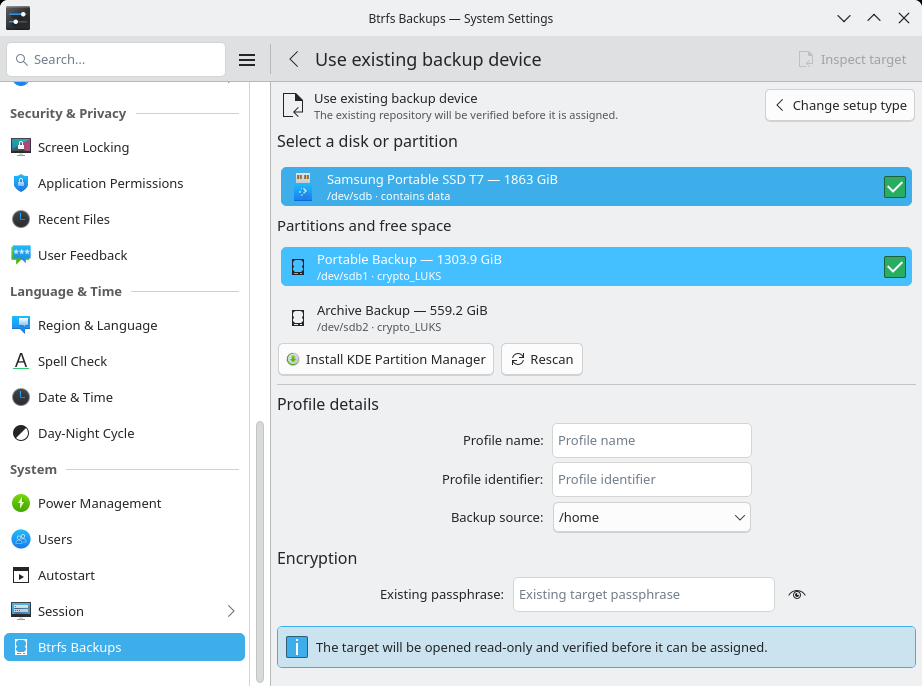
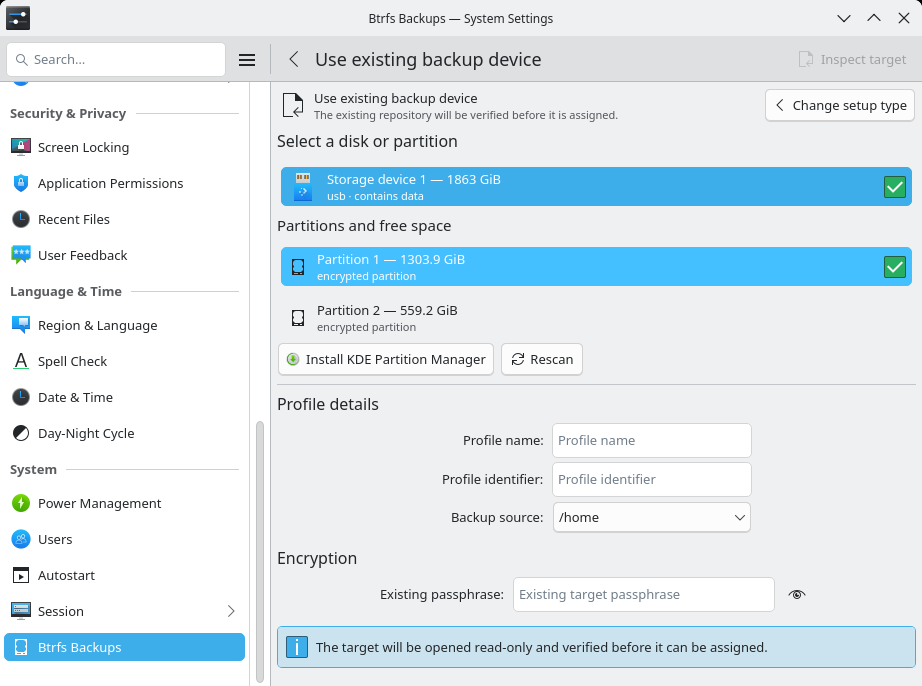
docs(screenshots): refresh deterministic README captures

Changed region(s): [[0.3341, 0.3673, 0.5466, 0.4898], [0.3644, 0.2449, 0.6074, 0.3061]]

diff --git a/tools/screenshots/static-clock/contents/ui/main.qml b/tools/screenshots/static-clock/contents/ui/main.qml
@@ -1,0 +1,36 @@
+// SPDX-FileCopyrightText: 2026 Kamil Piwowarski <kapiwko@gmail.com>
+// SPDX-License-Identifier: GPL-3.0-or-later
+
+import QtQuick
+import org.kde.kirigami as Kirigami
+import org.kde.plasma.plasmoid
+
+PlasmoidItem {
+    implicitWidth: 76
+    implicitHeight: 44
+    preferredRepresentation: fullRepresentation
+
+    fullRepresentation: Item {
+        implicitWidth: 76
+        implicitHeight: 44
+
+        Column {
+            anchors.centerIn: parent
+            spacing: -2
+
+            Text {
+                anchors.horizontalCenter: parent.horizontalCenter
+                color: Kirigami.Theme.textColor
+                font.pixelSize: 17
+                text: "12:14"
+            }
+
+            Text {
+                anchors.horizontalCenter: parent.horizontalCenter
+                color: Kirigami.Theme.textColor
+                font.pixelSize: 11
+                text: "03.09.2026"
+            }
+        }
+    }
+}

diff --git a/tools/screenshots/widget_panel.js b/tools/screenshots/widget_panel.js
@@ -15,5 +15,5 @@ var widget = panel.addWidget("org.btrfsbackup.plasmoid");
 widget.currentConfigGroup = ["General"];
 widget.writeConfig("showStorage", false);
 widget.globalShortcut = "Meta+B";
-panel.addWidget("org.kde.plasma.digitalclock");
+panel.addWidget("org.btrfsbackup.screenshotclock");
 print(widget.id);

diff --git a/tools/screenshots/notification_panel.js b/tools/screenshots/notification_panel.js
@@ -13,5 +13,5 @@ panel.addWidget("org.kde.plasma.panelspacer");
 
 var widget = panel.addWidget("org.kde.plasma.notifications");
 widget.globalShortcut = "Meta+N";
-panel.addWidget("org.kde.plasma.digitalclock");
+panel.addWidget("org.btrfsbackup.screenshotclock");
 print(widget.id);

diff --git a/tools/screenshots/kde-manager-demo.cpp b/tools/screenshots/kde-manager-demo.cpp
@@ -3,8 +3,12 @@
 
 #include <QCoreApplication>
 #include <QDBusConnection>
+#include <QDateTime>
 #include <QJsonDocument>
 #include <QJsonObject>
+#include <QTime>
+
+#include <core/ManagerProtocol.hpp>
 
 class ScreenshotSplash final : public QObject {
     Q_OBJECT
@@ -20,7 +24,8 @@ class ScreenshotManager final : public QObject {
     Q_CLASSINFO("D-Bus Interface", "io.github.btrfsbackup.Manager1")
 
   public:
-    explicit ScreenshotManager(QString mode) : mode_(std::move(mode)) {
+    explicit ScreenshotManager(QString mode, QString page)
+        : mode_(std::move(mode)), page_(std::move(page)), now_(QDateTime::currentDateTimeUtc()) {
     }
 
   public slots:
@@ -34,10 +39,20 @@ class ScreenshotManager final : public QObject {
 
     QString GetStatus(const QString& profile) const {
         if (profile == QStringLiteral("home") && mode_ == QStringLiteral("transferring")) {
-            return QStringLiteral(R"({"schemaVersion":5,"runId":"run-1","state":"running","phase":"transfer","activity":"transferring","canCancel":true,"errorCode":"","sourceName":"Documents","targetName":"Portable Backup","bytesProcessed":68719476736,"bytesTotalEstimated":118111600640,"speedBps":94371840,"etaSeconds":540,"sourceProgress":58,"overallProgress":58,"progressAccuracy":"exact","sourceIndex":1,"sourceCount":1,"startedAt":"2026-09-03T08:00:00Z","updatedAt":"2026-09-03T08:12:00Z","lastSuccessAt":"2026-08-30T21:14:00Z","lastAttemptAt":"2026-08-30T21:14:00Z","lastAttemptState":"succeeded"})");
+            const QString started = now_.addSecs(-(4 * 60 * 60 + 14 * 60)).toString(Qt::ISODate);
+            const QString previous = now_.addDays(-3).toString(Qt::ISODate);
+            return QStringLiteral(R"({"schemaVersion":5,"runId":"run-1","state":"running","phase":"transfer","activity":"transferring","canCancel":true,"errorCode":"","sourceName":"Documents","targetName":"Portable Backup","bytesProcessed":68719476736,"bytesTotalEstimated":118111600640,"speedBps":94371840,"etaSeconds":540,"sourceProgress":58,"overallProgress":58,"progressAccuracy":"exact","sourceIndex":1,"sourceCount":1,"startedAt":"%1","updatedAt":"%2","lastSuccessAt":"%3","lastAttemptAt":"%3","lastAttemptState":"succeeded"})")
+                .arg(started, now_.toString(Qt::ISODate), previous);
         }
         if (profile == QStringLiteral("home")) {
-            return QStringLiteral(R"({"schemaVersion":5,"runId":"run-0","state":"succeeded","phase":"completed","activity":"idle","canCancel":false,"errorCode":"","sourceName":"Documents","targetName":"Portable Backup","bytesProcessed":68719476736,"bytesTotalEstimated":68719476736,"speedBps":0,"etaSeconds":-1,"sourceProgress":100,"overallProgress":100,"progressAccuracy":"exact","sourceIndex":1,"sourceCount":1,"startedAt":"2026-08-30T20:50:00Z","updatedAt":"2026-08-30T21:14:00Z","lastSuccessAt":"2026-08-30T21:14:00Z","lastAttemptAt":"2026-08-30T21:14:00Z","lastAttemptState":"succeeded"})");
+            QDateTime previous = now_.addDays(-3);
+            if (page_ == QStringLiteral("profile-details")) {
+                previous = now_.addDays(-4);
+                previous.setTime(QTime(21, 14));
+            }
+            const QString completed = previous.toString(Qt::ISODate);
+            return QStringLiteral(R"({"schemaVersion":5,"runId":"run-0","state":"succeeded","phase":"completed","activity":"idle","canCancel":false,"errorCode":"","sourceName":"Documents","targetName":"Portable Backup","bytesProcessed":68719476736,"bytesTotalEstimated":68719476736,"speedBps":0,"etaSeconds":-1,"sourceProgress":100,"overallProgress":100,"progressAccuracy":"exact","sourceIndex":1,"sourceCount":1,"startedAt":"%1","updatedAt":"%2","lastSuccessAt":"%2","lastAttemptAt":"%2","lastAttemptState":"succeeded"})")
+                .arg(previous.addSecs(-24 * 60).toString(Qt::ISODate), completed);
         }
         return QStringLiteral(R"({"schemaVersion":5,"runId":"","state":"idle","phase":"idle","activity":"idle","canCancel":false,"errorCode":"","sourceName":"","targetName":"Studio Archive","bytesProcessed":0,"bytesTotalEstimated":0,"speedBps":0,"etaSeconds":-1,"sourceProgress":-1,"overallProgress":-1,"progressAccuracy":"unknown","sourceIndex":0,"sourceCount":1,"startedAt":"","updatedAt":"","lastSuccessAt":"2026-08-27T18:42:00Z","lastAttemptAt":"2026-08-27T18:42:00Z","lastAttemptState":"succeeded"})");
     }
@@ -72,8 +87,9 @@ class ScreenshotManager final : public QObject {
 
     QString InspectStorageTopology() const {
         return QStringLiteral(
-            R"({"schemaVersion":1,"generation":"screenshot-topology-1","devices":[{"candidateId":"device-portable-backup","path":"/dev/sdb","displayName":"Samsung Portable SSD T7","model":"Samsung Portable SSD T7","transport":"usb","sizeBytes":2000398934016,"logicalSectorSize":512,"physicalSectorSize":4096,"removable":true,"hotplug":true,"systemDevice":false,"mounted":false,"containsData":true,"readOnly":false,"partitionTableType":"gpt","regions":[{"candidateId":"partition-portable-backup","kind":"existing-partition","path":"/dev/sdb1","partitionNumber":1,"partitionUuid":"11111111-2222-3333-4444-555555555555","partitionLabel":"Portable Backup","startSector":2048,"sectorCount":2734375000,"filesystemType":"crypto_LUKS","filesystemLabel":"Portable Backup","filesystemUuid":"aaaaaaaa-bbbb-cccc-dddd-eeeeeeeeeeee","mountPoints":[],"configuredBackupTarget":false,"suitableForReformat":true,"suitableForAdoption":true,"blockers":[]},{"candidateId":"partition-archive-backup","kind":"existing-partition","path":"/dev/sdb2","partitionNumber":2,"partitionUuid":"22222222-3333-4444-5555-666666666666","partitionLabel":"Archive Backup","startSector":2734377048,"sectorCount":1172652120,"filesystemType":"crypto_LUKS","filesystemLabel":"Archive Backup","filesystemUuid":"cccccccc-dddd-eeee-ffff-000000000000","mountPoints":[],"configuredBackupTarget":false,"suitableForReformat":true,"suitableForAdoption":true,"blockers":[]}],"blockers":[]},{"candidateId":"device-sandisk-extreme","path":"/dev/sdc","displayName":"SanDisk Extreme 55AE","model":"SanDisk Extreme 55AE","transport":"usb","sizeBytes":1000204886016,"logicalSectorSize":512,"physicalSectorSize":4096,"removable":true,"hotplug":true,"systemDevice":false,"mounted":false,"containsData":true,"readOnly":false,"partitionTableType":"gpt","regions":[{"candidateId":"partition-sandisk-data","kind":"existing-partition","path":"/dev/sdc1","partitionNumber":1,"partitionUuid":"66666666-7777-8888-9999-aaaaaaaaaaaa","partitionLabel":"Files","startSector":2048,"sectorCount":1269790000,"filesystemType":"ext4","filesystemLabel":"Files","filesystemUuid":"bbbbbbbb-cccc-dddd-eeee-ffffffffffff","mountPoints":[],"configuredBackupTarget":false,"suitableForReformat":true,"suitableForAdoption":false,"blockers":[]},{"candidateId":"free-sandisk","kind":"unallocated","startSector":1269792048,"sectorCount":683731000,"suitableForBackupPartition":true,"blockers":[]}],"blockers":[]}]})"
-        );
+            R"({"schemaVersion":%1,"generation":"screenshot-topology-1","devices":[{"candidateId":"device-portable-backup","displayIndex":1,"transport":"usb","sizeBytes":2000398934016,"logicalSectorSize":512,"physicalSectorSize":4096,"removable":true,"hotplug":true,"systemDevice":false,"mounted":false,"containsData":true,"readOnly":false,"partitionTableType":"gpt","regions":[{"candidateId":"partition-portable-backup","kind":"existing-partition","partitionNumber":1,"encrypted":true,"mounted":false,"startSector":2048,"sectorCount":2734375000,"configuredBackupTarget":false,"suitableForReformat":true,"suitableForAdoption":true,"blockers":[]},{"candidateId":"partition-archive-backup","kind":"existing-partition","partitionNumber":2,"encrypted":true,"mounted":false,"startSector":2734377048,"sectorCount":1172652120,"configuredBackupTarget":false,"suitableForReformat":true,"suitableForAdoption":true,"blockers":[]}],"blockers":[]},{"candidateId":"device-sandisk-extreme","displayIndex":2,"transport":"usb","sizeBytes":1000204886016,"logicalSectorSize":512,"physicalSectorSize":4096,"removable":true,"hotplug":true,"systemDevice":false,"mounted":false,"containsData":true,"readOnly":false,"partitionTableType":"gpt","regions":[{"candidateId":"partition-sandisk-data","kind":"existing-partition","partitionNumber":1,"encrypted":false,"mounted":false,"startSector":2048,"sectorCount":1269790000,"configuredBackupTarget":false,"suitableForReformat":true,"suitableForAdoption":false,"blockers":[]},{"candidateId":"free-sandisk","kind":"unallocated","startSector":1269792048,"sectorCount":683731000,"suitableForBackupPartition":true,"blockers":[]}],"blockers":[]}]})"
+        )
+            .arg(btrfsbackup::manager_protocol::storage_topology_schema_version);
     }
 
     QString ListSourceCandidates() const {
@@ -146,8 +162,9 @@ class ScreenshotManager final : public QObject {
                   R"({"deviceId":"device-sandisk-extreme","sizeBytes":1000204886016,"logicalSectorSize":512,"partitionTableType":"gpt","regions":[{"candidateId":"partition-sandisk-data","kind":"backup-partition","startSector":2048,"sectorCount":1269790000,"partitionNumber":1,"path":"/dev/sdc1","partitionLabel":"Btrfs Backup","filesystemType":"btrfs","geometryExact":true,"encrypted":true,"changed":true,"dataWillBeErased":false},{"candidateId":"free-sandisk","kind":"unallocated","startSector":1269792048,"sectorCount":683731000,"partitionNumber":0,"path":"","partitionLabel":"","filesystemType":"","geometryExact":true,"encrypted":false,"changed":false,"dataWillBeErased":false}]})"
               );
         return QStringLiteral(
-                   R"({"schemaVersion":2,"planId":"screenshot-plan-1","topologyGeneration":"screenshot-topology-1","mode":"%1"%2,"before":%3,"after":%4,"operations":["erase-partition-signatures","format-luks2","format-btrfs"],"warnings":[],"destructiveScope":"existing-partition"})"
+                   R"({"schemaVersion":%1,"planId":"screenshot-plan-1","topologyGeneration":"screenshot-topology-1","mode":"%2"%3,"before":%4,"after":%5,"operations":["erase-partition-signatures","format-luks2","format-btrfs"],"warnings":[],"destructiveScope":"existing-partition"})"
         )
+            .arg(btrfsbackup::manager_protocol::device_preparation_plan_schema_version)
             .arg(mode, identity, before, after);
     }
 
@@ -166,11 +183,16 @@ class ScreenshotManager final : public QObject {
     }
 
     QString mode_;
+    QString page_;
+    QDateTime now_;
 };
 
 int main(int argc, char* argv[]) {
     QCoreApplication application(argc, argv);
-    ScreenshotManager manager(application.arguments().value(1, QStringLiteral("connected")));
+    ScreenshotManager manager(
+        application.arguments().value(1, QStringLiteral("connected")),
+        application.arguments().value(2)
+    );
     ScreenshotSplash splash;
     QDBusConnection bus = QDBusConnection::sessionBus();
     if (!bus.registerObject(

diff --git a/tools/screenshots/render.py b/tools/screenshots/render.py
@@ -24,6 +24,13 @@ TARGETS = (
     "btrfsbackup_kde_modelsplugin", "btrfs-backup-kde-manager-demo", "kio_btrfsbackup",
     "kcm_btrfsbackup", "btrfs-backup-kde-restore", "btrfs-backup-kde-screenshot-demo",
 )
+SCREENSHOT_TIME = "2026-09-03 12:14:00"
+FAKETIME_LIBRARY_PATHS = (
+    Path("/usr/lib/faketime/libfaketimeMT.so.1"),
+    Path("/usr/lib/faketime/libfaketime.so.1"),
+    Path("/usr/lib/x86_64-linux-gnu/faketime/libfaketimeMT.so.1"),
+    Path("/usr/lib/x86_64-linux-gnu/faketime/libfaketime.so.1"),
+)
 
 
 def scenario_specs(only: str, kcm_page: str) -> list[dict[str, str]]:
@@ -76,6 +83,32 @@ def session_identity(output_name: str) -> str:
     return hashlib.sha256(output_name.encode()).hexdigest()[:12]
 
 
+def deterministic_process_environment() -> dict[str, str]:
+    configured = os.environ.get("BTRFS_BACKUP_SCREENSHOT_FAKETIME_LIBRARY")
+    candidates = (Path(configured),) if configured else FAKETIME_LIBRARY_PATHS
+    library = next((path for path in candidates if path.is_file()), None)
+    if library is None:
+        raise RuntimeError("libfaketime is required to render deterministic screenshots")
+    preload = str(library)
+    if existing := os.environ.get("LD_PRELOAD"):
+        preload += f":{existing}"
+    return {
+        "FAKETIME": SCREENSHOT_TIME,
+        "FAKETIME_DONT_FAKE_MONOTONIC": "1",
+        "LD_PRELOAD": preload,
+        "TZ": "UTC",
+    }
+
+
+def normalize_png(output: Path) -> None:
+    normalized = output.with_name(f".{output.name}.normalized")
+    try:
+        run(["magick", str(output), "-strip", "-define", "png:exclude-chunks=date,time", str(normalized)])
+        normalized.replace(output)
+    finally:
+        normalized.unlink(missing_ok=True)
+
+
 def build(build_dir: Path) -> None:
     run(["cmake", "-S", str(ROOT), "-B", str(build_dir), "-DCMAKE_BUILD_TYPE=Release",
          "-DBUILD_KDE_INTEGRATION=ON", "-DBUILD_README_SCREENSHOTS=ON", "-DBUILD_TESTING=OFF"])
@@ -94,7 +127,7 @@ def capture(spec: dict[str, str], output_dir: Path, build_dir: Path, qml: str) -
                "source_dir": str(ROOT), "qml": qml, "mode": spec.get("mode", ""),
                "page": spec.get("page", ""), "scene": spec.get("scene", ""), "delay": 1.0}
     arguments = [str(Path(__file__).resolve())]
-    environment = {**os.environ, "XDG_RUNTIME_DIR": str(runtime_dir),
+    environment = {**os.environ, **deterministic_process_environment(), "XDG_RUNTIME_DIR": str(runtime_dir),
                    "BTRFS_BACKUP_SCREENSHOT_CAPTURE": json.dumps(payload)}
     if spec["kind"] == "notification":
         data = build_dir / "screenshot-data"
@@ -107,6 +140,7 @@ def capture(spec: dict[str, str], output_dir: Path, build_dir: Path, qml: str) -
          "--no-lockscreen", "--no-global-shortcuts", "--exit-with-session", *arguments], env=environment)
     if not output.is_file():
         raise RuntimeError(f"expected screenshot was not created: {output}")
+    normalize_png(output)
     print(f"Rendered {output}")
     return {"scenario": spec["kind"], "mode": spec.get("mode", ""), "page": spec.get("page", ""),
             "path": output.name, "bytes": output.stat().st_size,

diff --git a/tools/screenshots/scenarios.py b/tools/screenshots/scenarios.py
@@ -19,6 +19,12 @@ NOTIFICATION_PANEL_SCRIPT = (SCRIPT_DIR / "notification_panel.js").read_text()
 WIDGET_PANEL_SCRIPT = (SCRIPT_DIR / "widget_panel.js").read_text()
 
 
+def install_static_clock(data: Path) -> None:
+    package = data / "plasma/plasmoids/org.btrfsbackup.screenshotclock"
+    package.parent.mkdir(parents=True, exist_ok=True)
+    shutil.copytree(SCRIPT_DIR / "static-clock", package, dirs_exist_ok=True)
+
+
 def qdbus_script(session: DesktopSession, script: str) -> str:
     for _ in range(30):
         try:
@@ -56,6 +62,7 @@ def active_window(session: DesktopSession, output: Path, build_dir: Path, source
 def notification(session: DesktopSession, output: Path, build_dir: Path, source_dir: Path,
                  mode: str, page: str, scene: str, qml: str, delay: float) -> None:
     unused = page, scene, qml, delay, source_dir
+    install_static_clock(Path(session.environment["XDG_DATA_HOME"]))
     session.environment.update({"QT_QUICK_BACKEND": "software",
                                 "XDG_CONFIG_HOME": str(session.runtime_dir / "config")})
     Path(session.environment["XDG_CONFIG_HOME"]).mkdir()
@@ -113,6 +120,7 @@ def plasma_widget(session: DesktopSession, output: Path, build_dir: Path, source
     package.parent.mkdir(parents=True)
     config.mkdir()
     shutil.copytree(source_dir / "integrations/kde/plasmoid/package", package)
+    install_static_clock(data)
     shutil.copy2(build_dir / "integrations/kde/metadata.json", package / "metadata.json")
     (package / "metadata.json.in").unlink(missing_ok=True)
     main_qml = package / "contents/ui/main.qml"
@@ -126,7 +134,7 @@ def plasma_widget(session: DesktopSession, output: Path, build_dir: Path, source
     session.update_activation_environment("WAYLAND_DISPLAY", "XDG_CURRENT_DESKTOP", "XDG_RUNTIME_DIR",
                                           "XDG_DATA_HOME", "XDG_CONFIG_HOME")
     manager = build_dir / "integrations/kde/btrfs-backup-kde-manager-demo"
-    session.start([str(manager), mode])
+    session.start([str(manager), mode, page])
     session.wait_for_bus_name("io.github.btrfsbackup.Manager1", 5)
     plasma = ["plasmashell"]
     if os.environ.get("BTRFS_BACKUP_SCREENSHOT_DEBUG") == "1":
@@ -159,7 +167,7 @@ def system_settings(session: DesktopSession, output: Path, build_dir: Path, sour
                                           "XDG_DATA_HOME", "QT_LINUX_ACCESSIBILITY_ALWAYS_ON",
                                           "QT_ACCESSIBILITY", "NO_AT_BRIDGE")
     manager = build_dir / "integrations/kde/btrfs-backup-kde-manager-demo"
-    session.start([str(manager), mode])
+    session.start([str(manager), mode, page])
     session.wait_for_bus_name("io.github.btrfsbackup.Manager1", 5)
     shutil.copy2(build_dir / "integrations/kde/kcm/kcm_btrfsbackup.desktop", applications)
     session.start(["systemsettings", "kcm_btrfsbackup"], extra_env={

diff --git a/tools/screenshots/render_tests.py b/tools/screenshots/render_tests.py
@@ -6,10 +6,12 @@
 from __future__ import annotations
 
 import tempfile
+import os
 from pathlib import Path
 import unittest
+from unittest.mock import patch
 
-from render import scenario_specs, session_identity
+from render import SCREENSHOT_TIME, deterministic_process_environment, scenario_specs, session_identity
 from scenarios import NOTIFICATION_PANEL_SCRIPT, WIDGET_PANEL_SCRIPT
 from session import DesktopSession
 
@@ -18,6 +20,8 @@ class ScenarioSpecsTests(unittest.TestCase):
     def test_plasma_scripts_are_external_assets(self) -> None:
         self.assertIn('org.kde.plasma.notifications', NOTIFICATION_PANEL_SCRIPT)
         self.assertIn('org.btrfsbackup.plasmoid', WIDGET_PANEL_SCRIPT)
+        self.assertIn('org.btrfsbackup.screenshotclock', NOTIFICATION_PANEL_SCRIPT)
+        self.assertIn('org.btrfsbackup.screenshotclock', WIDGET_PANEL_SCRIPT)
 
     def test_all_contains_each_scenario_and_unique_outputs(self) -> None:
         specs = scenario_specs("all", "all")
@@ -42,6 +46,20 @@ class ScenarioSpecsTests(unittest.TestCase):
         name = "system-settings-new-profile-prepare-partition"
         self.assertEqual(session_identity(name), session_identity(name))
         self.assertEqual(len(session_identity(name)), 12)
+
+    def test_deterministic_environment_freezes_wall_clock_only(self) -> None:
+        with tempfile.TemporaryDirectory() as directory:
+            library = Path(directory) / "libfaketime.so.1"
+            library.touch()
+            with patch.dict(os.environ, {
+                "BTRFS_BACKUP_SCREENSHOT_FAKETIME_LIBRARY": str(library),
+                "LD_PRELOAD": "existing.so",
+            }, clear=False):
+                environment = deterministic_process_environment()
+        self.assertEqual(environment["FAKETIME"], SCREENSHOT_TIME)
+        self.assertEqual(environment["FAKETIME_DONT_FAKE_MONOTONIC"], "1")
+        self.assertEqual(environment["LD_PRELOAD"], f"{library}:existing.so")
+        self.assertEqual(environment["TZ"], "UTC")
 
 
 class DesktopSessionTests(unittest.TestCase):
